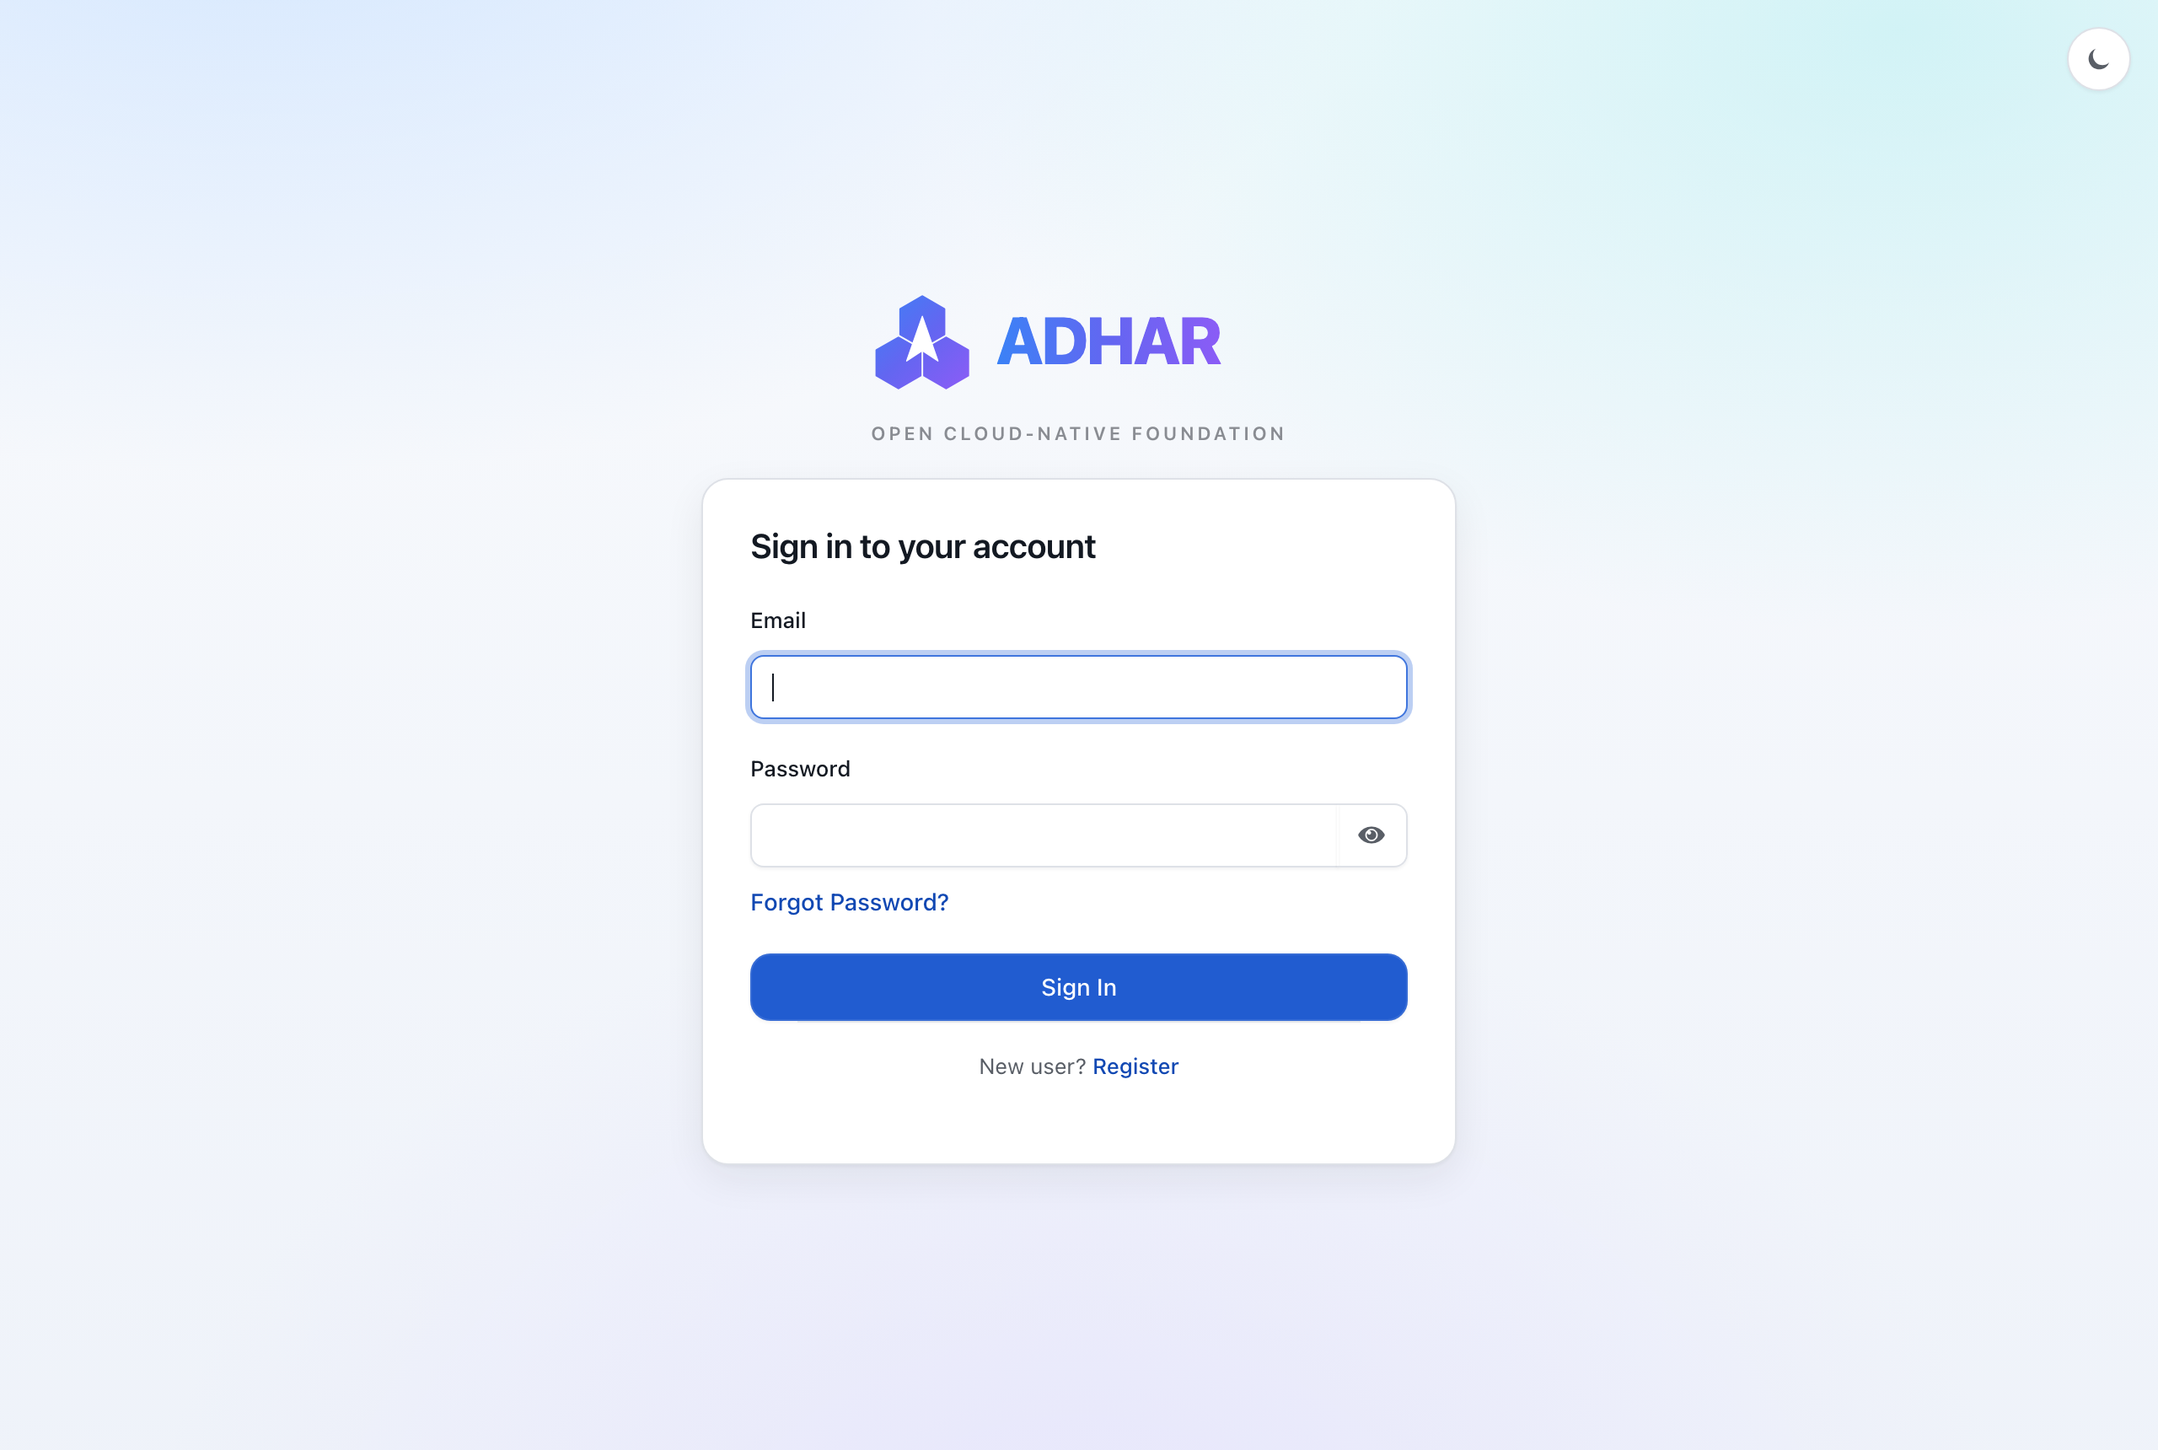
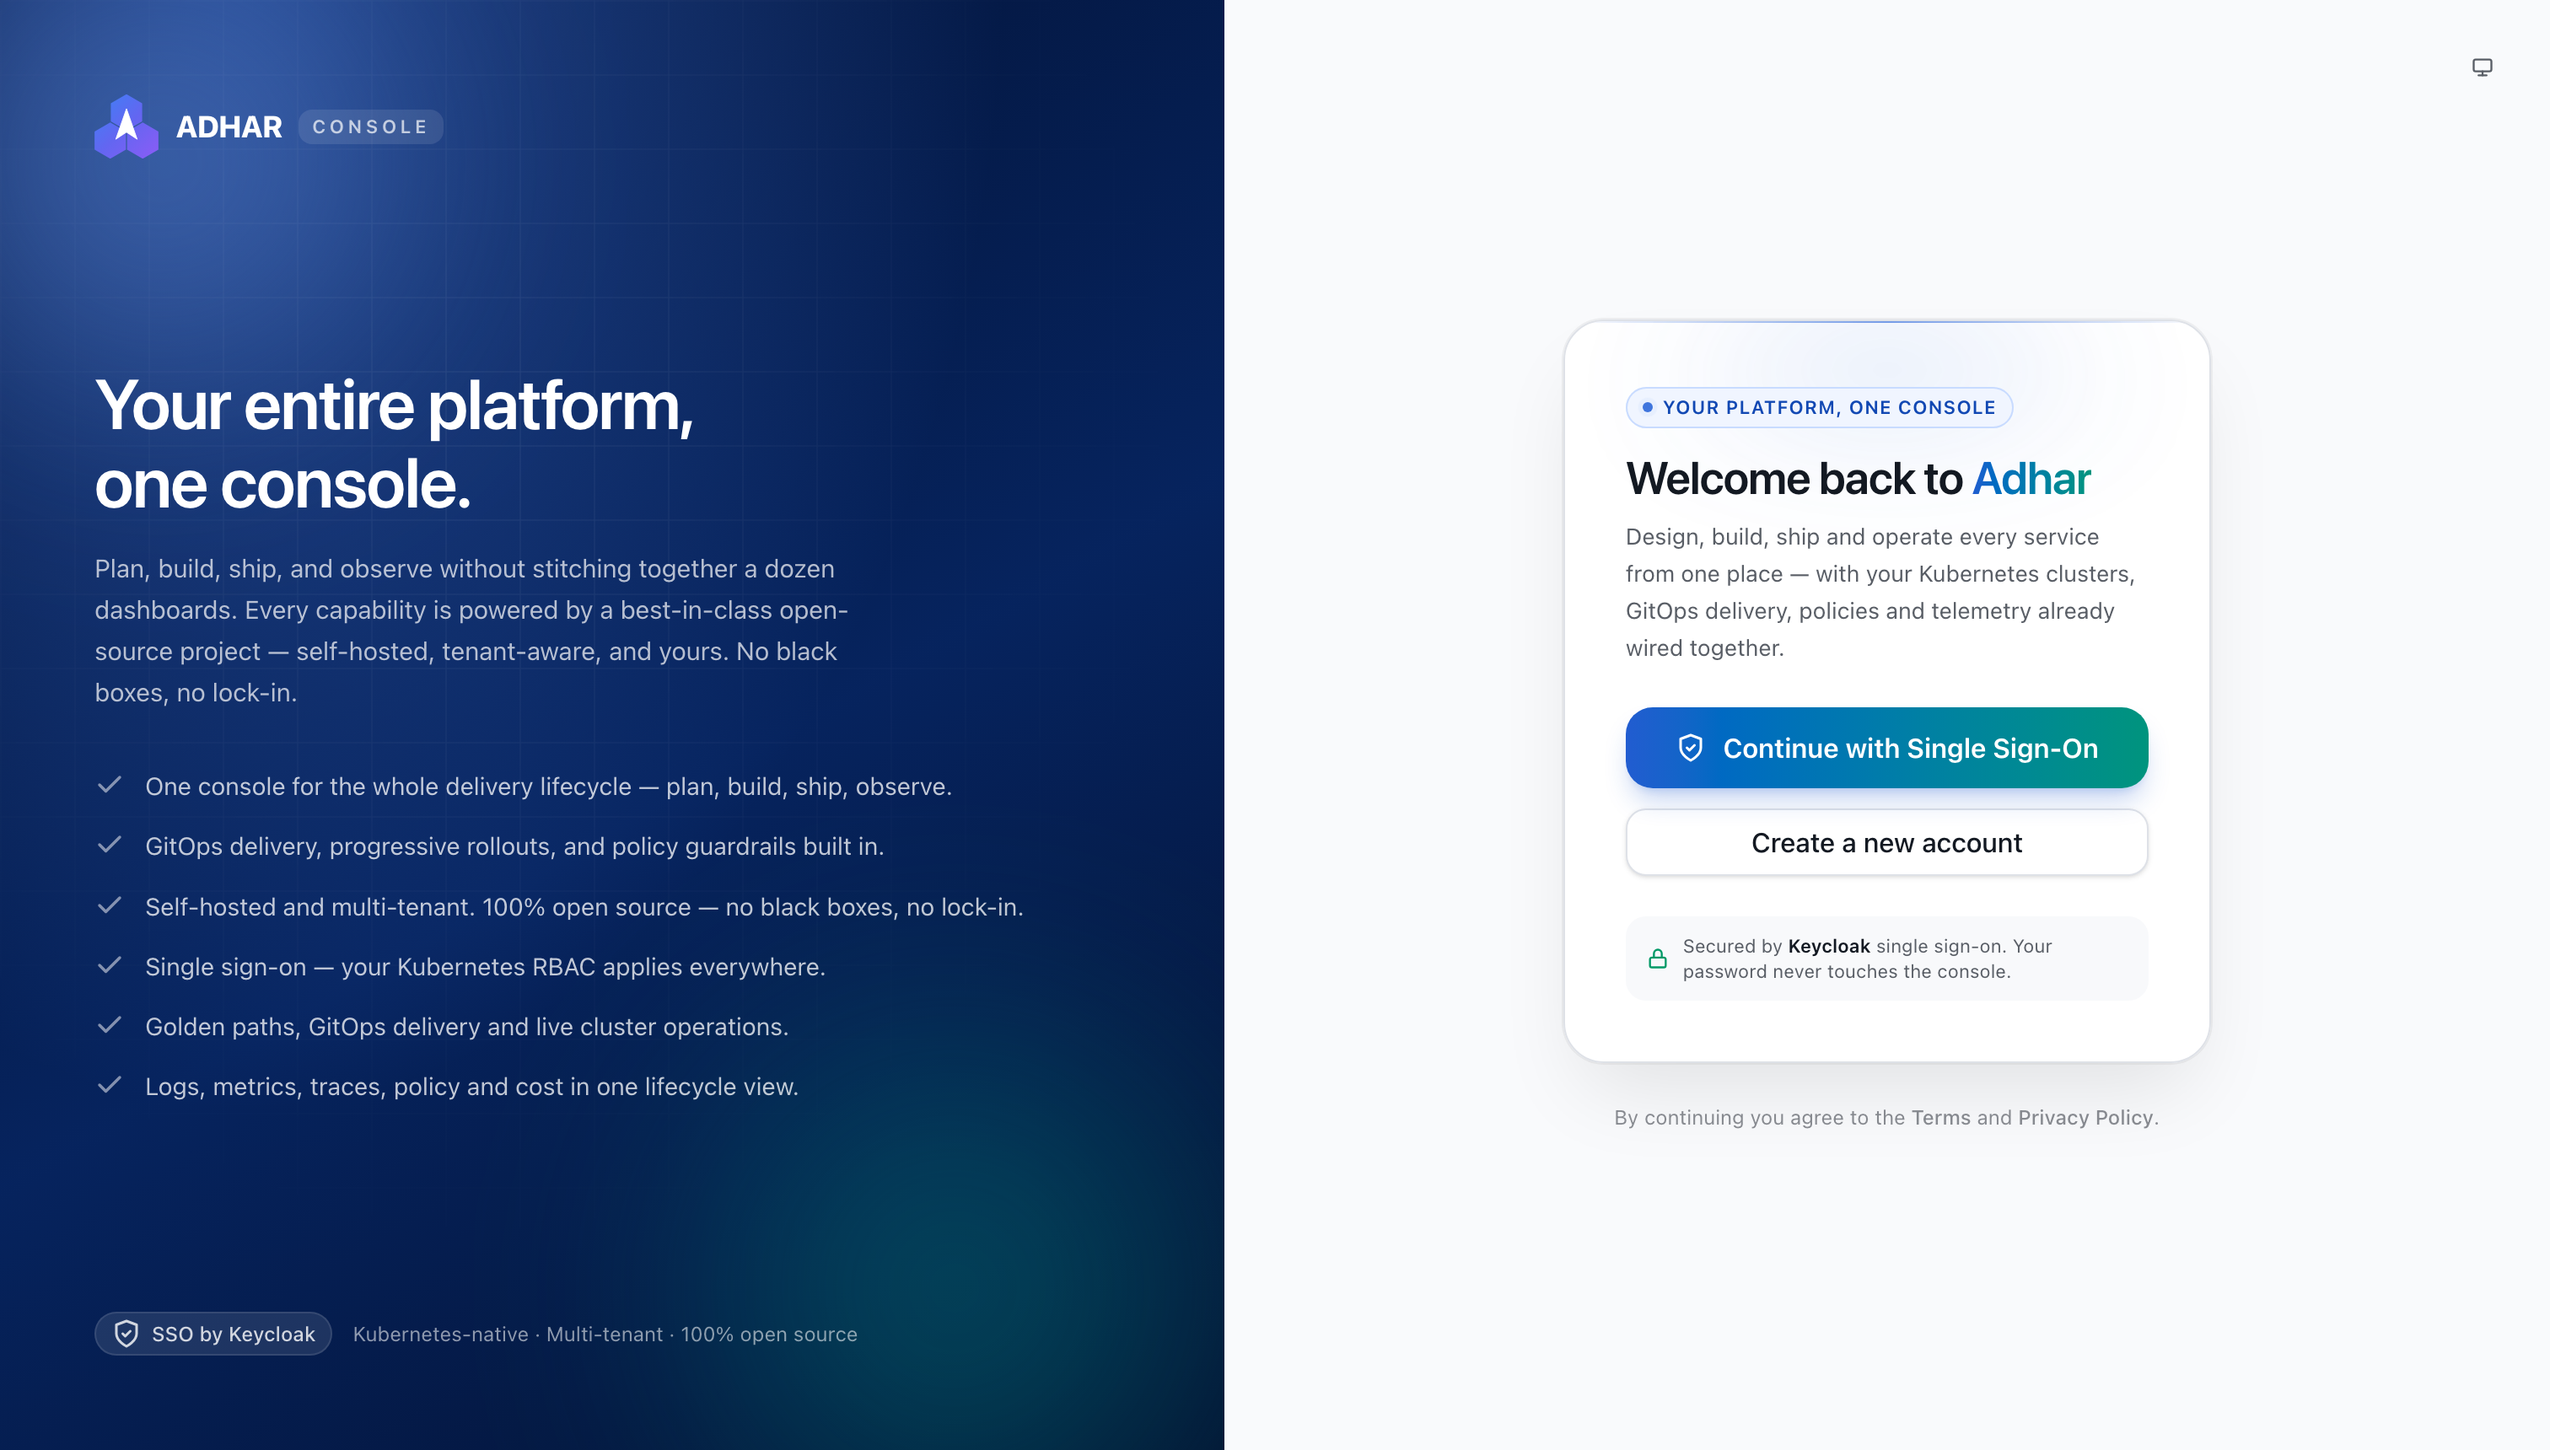
docs(readme): two screenshots — the console's own sign-in, and Overview
`login.png` showed Keycloak's page. The console has its own sign-in
screen in front of it — the split panel with "Continue with Single
Sign-On" — and that is what a visitor actually meets, so it replaces the
Keycloak capture. Taken live from console.platform.adhar.io/login.

`idp-theme.png` goes with the section that described it.

Also drops the note about how the images were made. It claimed Overview
could not be photographed without someone's private session, which is no
longer the caveat worth spending a paragraph on.

diff --git a/README.md b/README.md
@@ -64,18 +64,7 @@ and webhooks.
 
 <em>Overview. Cluster health, delivery state, capacity and policy on one screen — every number read live from Kubernetes and Argo CD.</em>
 
-<br /><br />
-
-<img src="./docs/assets/screenshots/idp-theme.png" alt="The Adhar Keycloak sign-in theme in light and dark" width="920" />
-
-<em>Light and dark. The Keycloak sign-in page uses the console's own design tokens, and follows the theme you picked.</em>
-
 </div>
-
-> **On these images.** Sign-in is a live capture. Overview is a design render
-> built from the console's own palette, navigation tree and real figures from a
-> running cluster — the console has no demo mode, so its interior cannot be
-> photographed without a signed-in session against someone's private platform.
 
 ---
 
